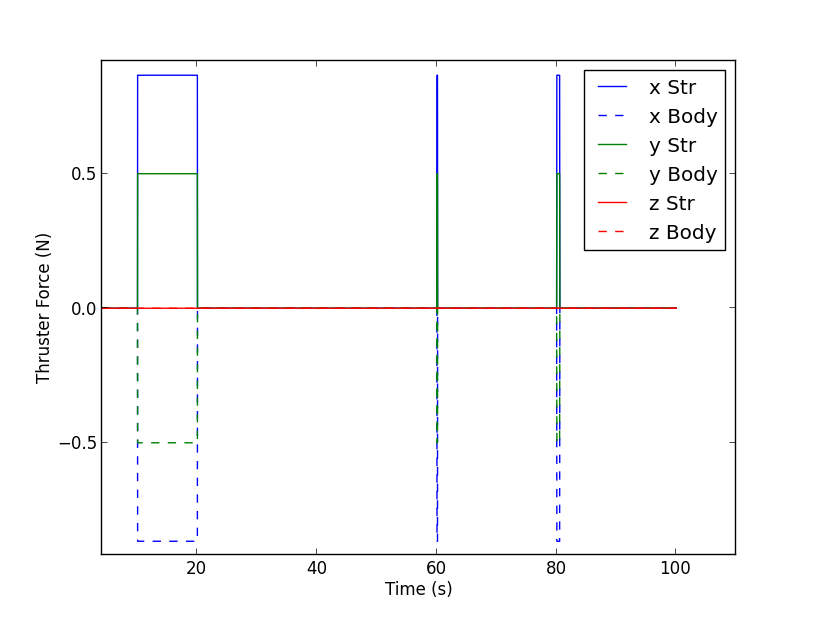
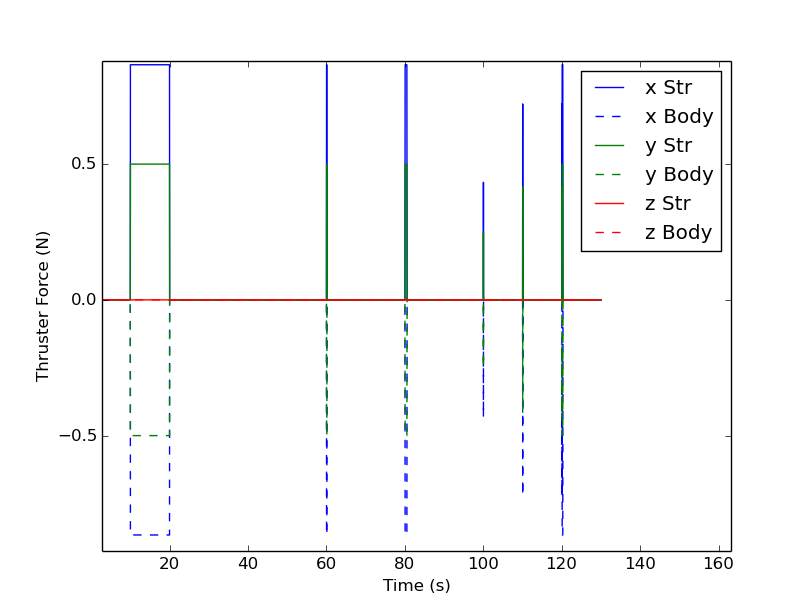
Committing updates for thruster_dynamics unit test.  Module is now completely tested and documented.
Former-commit-id: 45675307061fccbe301b770ad9b1a26f610c2d2d
Former-commit-id: 7fdf4bbc28b7f6ab2bea3b07f8066d2f0facc848

Changed region(s): [[0.0616, 0.0931, 0.9236, 0.9624], [0.0308, 0.3725, 0.0616, 0.6209]]

diff --git a/SimCode/dynamics/Thrusters/UnitTest/Doc/ADC-ThrustUnitTest.tex b/SimCode/dynamics/Thrusters/UnitTest/Doc/ADC-ThrustUnitTest.tex
@@ -11,6 +11,9 @@
    the AVS Basilisk Simulation as part of the EMM project. }
 
 
+\usepackage[usenames,dvipsnames]{xcolor}
+\usepackage{hyperref}
+
 \begin{document}
 
 
@@ -100,15 +103,150 @@ up into several parts:\\
   rules of thumb above is fired to ensure that it is still correct enough.}
 \item{Ramp On/Ramp Off Firing: A set of ramps are set for the thruster to ensure 
   that the ramp configurationis respected during a ramped firing.}
+\item{Short firing: A thruster is fired for less than the amount of time it 
+   takes to reach the end of its ramp.}
+\item{Cutoff firing: A thruster is commanded off (zero firing time) in the middle 
+   of its ramp up to ensure that it correctly cuts off the current firing}
+\item{Ramp down firing: A thruster is fired during the middle of its ramp down 
+   to ensure that it picks up at that point in its ramp-up curve and reaches 
+   steady state correctly.}
 \end{enumerate}
 
 
 \section{Test Results}
+
+
 \begin{enumerate}
-\item{Thruster Force Orientation:}
-\item{Instantaneous On/Off Factor:}
-\item{Short Instantaneous Firing:}
-\item{Ramp On/Ramp Off Firing:}
+\item{Thruster Force Orientation: The thruster is pointed with a 30 degree cant 
+    off of the x-axis such that it fires with the sine of 30 in the y-axis 
+    and the cosine of 30 in the x-axis.  Then the structure to body rotation 
+    is configured with a 180 degree yaw such that the values in the axes are 
+    negated in the body frame. Figure \ref{fig:force_vec_fig} shows a plot of 
+    this behavior for the thruster unit test.
+    \begin{figure}[htb]
+            \centerline{
+            \includegraphics[scale=0.5]{Figures/thrusterForceData}
+            }
+            \caption{Structural and Body Forces for Thruster Unit Test}
+            \label{fig:force_vec_fig}
+    \end{figure}
+    As this figure shows, the desired behavior is captured exactly for each 
+    firing in the test.  \textcolor{ForestGreen}{Test successful.}
+}
+\item{Instantaneous On/Off Factor:  The main driving force for the overall 
+    thrust coming out of a thruster in the model is the instantaneous thrust 
+    factor.  This parameter will be the primary check for the rest of the test. 
+    A single firing was commanded with a duration of 10 seconds.  No thruster 
+    ramp was used for either the ramp-up or ramp-down.  The expected total 
+    duration for the thruster firing was 10.0 seconds.  Figure 
+    \ref{fig:first_inst_fir} shows a plot of the thrust factor for this firing.
+    \begin{figure}[htb]
+            \centerline{
+            \includegraphics[scale=0.5]{Figures/firstInstantFiring}
+            }
+            \caption{Thrust factor for 10.0 second firing}
+            \label{fig:first_inst_fir}
+    \end{figure}
+    As this plot shows, the thruster does jump to the appropriate firing level 
+    as soon as it turns on.  There are two funnies that need to be verified in 
+    a different test.  The thrust factor is designed to be driven during the 
+    derivative step of dynamics with a multi-step integrator.  In order to test 
+    this single model, this dynamics effect was emulated in the test driver.  
+    However this indicates that the thruster terminates one dynamics cycle prior 
+    to 10.0 seconds and reflects this effect regardless of the dynamics step 
+    used.  This is nominal because of the dynamics emulation but an integrated 
+    test does need to be performed to verify that the integrated impulse is 
+    correct for a single firing.  \textcolor{ForestGreen}{Test successful.}
+}
+\item{Short Instantaneous Firing: Similar to the previous test, a non-ramped 
+    firing was commanded with a shorter duration of 0.1 seconds to ensure that 
+    the firing shows the same overall behavior as a long-duration firing.  
+    Figure \ref{fig:second_inst_fir} shows the plot for this firing.
+
+    \begin{figure}[htb]
+            \centerline{
+            \includegraphics[scale=0.5]{Figures/secondInstantFiring}
+            }
+            \caption{Thrust factor for 0.1 second firing}
+            \label{fig:second_inst_fir}
+    \end{figure}
+    As this figure shows, the short firing behaves exactly as expected with the 
+    same character as the results shown in the previous test.
+    \textcolor{ForestGreen}{Test successful.}
+}
+\item{Ramp On/Ramp Off Firing:  This test was performed with a thruster 
+    ramp model added for both the startup and the shutdown of the thruster.  
+    Both the startup and shutdown ramps were setup such that they ramp linearly 
+    and take 30 ms to reach steady-state thrust.  Figure \ref{fig:first_ramp_fir} 
+    shows the thrust factor to this ramped firing.
+    \begin{figure}[htb]
+            \centerline{
+            \includegraphics[scale=0.5]{Figures/secondInstantFiring}
+            }
+            \caption{Thrust factor for 0.5 second ramped firing}
+            \label{fig:first_ramp_fir}
+    \end{figure}
+    As this figure shows, both the startup and shutdown transients ramped 
+    according to the expected profile and both were checked to ensure that 
+    they took the expected 30 ms to ramp. 
+    \textcolor{ForestGreen}{Test successful.}
+}
+\item{Short firing:  This test was performed with a short firing that did not 
+    reach the steady-state thrust level for the thruster.  It was commanded on 
+    for a duration of 15 ms such that it should only get to a 50\% thrust level 
+    with the total firing duration being 30 ms from start to shutdown.  Figure 
+    \ref{fig:short_ramp_fir} shows the results of this test.
+    \begin{figure}[htb]
+            \centerline{
+            \includegraphics[scale=0.5]{Figures/shortRampFiring}
+            }
+            \caption{Thrust factor for 0.015 second ramped firing}
+            \label{fig:short_ramp_fir}
+    \end{figure}
+    As the figure shows, the test performed exactly as expected.  The thrust 
+    factor ramped linearly to 50\% and then down to zero in exactly 30 ms.  
+    	\textcolor{ForestGreen}{Test successful.}
+}
+\item{Cutoff firing:  This test contained two commanded firings.  The first 
+    command was set for 0.5 seconds and the simulation was then advanced for 
+    0.02 seconds.  Then a new command was injected to the system with a duration 
+    of 0.005 seconds.  The intent in this case is to end up with a net command 
+    that looks like it was set for 0.025 seconds to ensure that the new command 
+    was followed and correctly overrode the previous command.  Figure 
+    \ref{fig:cutoff_ramp_fir} shows the results from this test.
+    \begin{figure}[htb]
+            \centerline{
+            \includegraphics[scale=0.5]{Figures/cutoffRampFiring}
+            }
+            \caption{Thrust factor for cutoff ramped firing}
+            \label{fig:cutoff_ramp_fir}
+    \end{figure}
+    As the figure shows, the expected behavior is observed exactly.  The thruster 
+    ramps to 0.8333 in thrust factor with the total firing duration being 0.05 
+    seconds.  	\textcolor{ForestGreen}{Test successful.}
+}
+\item{Ramp down firing:  This test contained two firings again.  The first 
+    command was set for 0.025 seconds to have the thrust start to ramp down 
+    0.025 seconds after init.  Then a second command was sent after 0.04 seconds 
+    in the middle of the thruster's ramp-down to ensure that the command picked 
+    back up where the thrust was tailing off, ramped up to steady-state, and 
+    ramped down after the command (0.2 seconds) was fulfilled.  Figure 
+    \ref{fig:middle_ramp_fir} shows the model's thrust for this particular 
+    command set.
+    \begin{figure}[htb]
+            \centerline{
+            \includegraphics[scale=0.5]{Figures/middleRampFiring}
+            }
+            \caption{Thrust factor for firing during shutdown}
+            \label{fig:middle_ramp_fir}
+    \end{figure}
+    This test also performed nominally.  The first firing ramped to 0.025 seconds 
+    and then began turning off.  Then the second command was picked up and the 
+    thrust ramped smoothly until the total duration of 0.2 seconds was reached 
+    followed by a ramp down.  The total expected firing for this particular 
+    sequence is 0.04 + 0.2 + 0.03 or 0.27 seconds which matches the observed 
+    duration exactly.  	\textcolor{ForestGreen}{Test successful.}
+}
 \end{enumerate}
 
 \section{Test Coverage}
@@ -130,17 +268,47 @@ module are tabulated in Table~\ref{tab:cov_met}
       WriteOutputMessages & 100.0 & 0.0 & 0.0 \\
       ReadInputs & 100.0 & 0.0 & 0.0 \\
       ConfigureThrustRequests & 100.0 & 0.0 & 0.0 \\
-      ComputeDynamics & 100.0 & 0.0 & 0.0 \\
+      ComputeDynamics & 100.0 & 0.0 & 9.8 \\
       ComputeThrusterFire & 100.0 & 0.0 & 0.0 \\
       ComputeThrusterShut & 100.0 & 0.0 & 0.0 \\
-      updateMassProperties & 100.0 & 0.0 & 0.0 \\
+      updateMassProperties & 100.0 & 0.0 & 0.6 \\
       \hline
    \end{tabular}
 \end{table}
 
 For all of the methods in the spice\_interface modules, the code coverage 
-percentage is 100\% which meets our test requirements.  
+percentage is 100\% which meets our test requirements.  Additionally, 100\% of 
+all code branches in the thruster\_dynamics source code were executed by this 
+test.
+
+The test that was run to calculate thruster CPU usage was deliberately selected as 
+a stressing case for the thruster model.  The MOI burn was executed 9000 seconds 
+after the simulation was initialized and that maneuver takes 2000 seconds, so 
+approximately 20\% of the simulation was run with the vehicle under thrust.  
+With this stressing case, the ThrusterDynamics model accounted for 10\% of the 
+overall processing, which is certainly acceptable at this time.
+
+The main CPU usage of the thruster\_dynamics source code occurs in the 
+ComputeDynamics method that is called by the dynamics source.  The 
+ThrusterDynamics methods themselves account for very little of the processing 
+and it is the vector/matrix manipulation utilities called from the source that 
+are the main culprits.  While the thruster model's ComputeDynamics function is 
+using 50\% of the dynamics processing, that is only amounting to 10\% of the 
+overall simulation processing.  The rest of the architecture in Basilisk should 
+allow us to take the processing hit that we are getting from the 
+ThrusterDynamics module without issue.
 
 \section{Conclusions}
+The thruster\_dynamics module has sufficient fidelity to accomplish the analysis 
+that we need to perform for the EMM spacecraft.  All model capabilities were 
+tested and analyzed in this document with all observed performance being nominal 
+compared to the going-in expectation.  
+
+Every line of source code was successfully tested and the integrated model 
+performance was analyzed and is acceptable.  There are small updates that could 
+be made to get a slight performance increase if necessary, but the work that 
+would be required to get that performance bump does not seem worthwhile at this 
+time especially since the vehicle (and all spacecraft) spends so little of its 
+time under thrust.
 
 \end{document}

diff --git a/SimCode/dynamics/Thrusters/thruster_dynamics.cpp b/SimCode/dynamics/Thrusters/thruster_dynamics.cpp
@@ -61,11 +61,6 @@ void ThrusterDynamics::CrossInit()
     //! - Warn the user if the message is not successfully linked.
     CmdsInMsgID = SystemMessaging::GetInstance()->subscribeToMessage(InputCmds,
     MAX_NUM_EFFECTORS*sizeof(ThrustCmdStruct), moduleID);
-    if(CmdsInMsgID < 0)
-    {
-        std::cerr << "WARNING: Did not find a valid message with name: ";
-        std::cerr << InputCmds << "  :" << __FILE__ << std::endl;
-    }
 }
 
 /*! This method is here to write the output message structure into the specified
@@ -91,11 +86,6 @@ bool ThrusterDynamics::ReadInputs()
     uint64_t i;
     bool dataGood;
     //! Begin method steps
-    //! - If the input message ID is invalid, return without touching states
-    if(CmdsInMsgID < 0)
-    {
-        return(false);
-    }
     
     //! - Zero the command buffer and read the incoming command array
     SingleMessageHeader LocalHeader;
@@ -142,21 +132,20 @@ void ThrusterDynamics::ConfigureThrustRequests(double CurrentTime)
         if(*CmdIt >= it->MinOnTime) /// - Check to see if we have met minimum for each thruster
         {
             //! - For each case where we are above the minimum firing request, reset the thruster
-            it->ThrustOps.ThrusterStartTime = CurrentTime;
             it->ThrustOps.ThrustOnCmd = *CmdIt;
-            it->ThrustOps.ThrustOnRampTime = 0.0;
-            it->ThrustOps.ThrustOnSteadyTime = 0.0;
-            it->ThrustOps.ThrustOffRampTime = 0.0;
-            it->ThrustOps.PreviousIterTime = CurrentTime;
             it->ThrustOps.fireCounter += 1;
         }
         else
         {
             //! - Will ensure that thruster shuts down once this cmd expires
-            it->ThrustOps.ThrustOnCmd = *CmdIt;
-            it->ThrustOps.ThrusterStartTime = CurrentTime;
-            it->ThrustOps.PreviousIterTime = CurrentTime;
+            it->ThrustOps.ThrustOnCmd = it->ThrustOps.ThrustFactor > 0.0 
+                ? *CmdIt : 0.0;
         }
+        it->ThrustOps.ThrusterStartTime = CurrentTime;
+        it->ThrustOps.PreviousIterTime = CurrentTime;
+        it->ThrustOps.ThrustOnRampTime = 0.0;
+        it->ThrustOps.ThrustOnSteadyTime = 0.0;
+        it->ThrustOps.ThrustOffRampTime = 0.0;
         //! After we have assigned the firing to the internal thruster, zero the command request.
         *CmdIt = 0.0;
     }
@@ -389,8 +378,7 @@ double ThrusterDynamics::thrFactorToTime(ThrusterConfigData *thrData,
             prevValidThrFactor) * (thrData->ThrustOps.ThrustFactor - 
             prevValidThrFactor) + prevValidDelta;
         rampTime = rampTime < 0.0 ? 0.0 : rampTime;
-        return(rampTime);
-    
+        break; 
     }
 
     return(rampTime);
@@ -412,5 +400,6 @@ void ThrusterDynamics::UpdateState(uint64_t CurrentSimNanos)
     {
         ConfigureThrustRequests(CurrentSimNanos*1.0E-9);
     }
+    WriteOutputMessages(CurrentSimNanos);
     
 }

diff --git a/SimCode/dynamics/Thrusters/UnitTest/ThrusterDynamicsUnitTest.py b/SimCode/dynamics/Thrusters/UnitTest/ThrusterDynamicsUnitTest.py
@@ -48,7 +48,9 @@ Thruster1.ThrusterLocation = thruster_dynamics.DoubleVector([1.125, 0.0, 2.0])
 Thruster1.ThrusterDirection = thruster_dynamics.DoubleVector([
     math.cos(30.0*math.pi/180.0), math.sin(30.0*math.pi/180.0), 0.0])
 Thruster1.MaxThrust = 1.0
-ACSThrusterDynObject.ThrusterData = thruster_dynamics.ThrusterConfigVector([Thruster1])
+Thruster1.steadyIsp = 226.7
+Thruster1.MinOnTime = 0.006
+ACSThrusterDynObject.AddThruster(Thruster1)
 
 #Set the test step (var1) and the various stop times (var2-var4)
 var1 = int(1E6) # call the thread at 1000 Hz, let the thread do stuff at 10 Hz
@@ -60,6 +62,7 @@ var6 = int((110 + 0.02)*1E9) #next stop
 var7 = int(((120)*1E9)) #next stop
 var8 = int(((120+0.04)*1E9)) #next stop
 var9 = int(((130)*1E9)) #next stop
+var10 = int(((140)*1E9)) #next stop
 
 #Create a sim module as an empty container
 TotalSim = SimulationBaseClass.SimBaseClass()
@@ -140,7 +143,7 @@ TotalSim.TotalSim.WriteMessageData("acs_thruster_cmds", 8, 3, ThrustMessage);
 executeSimulationRun(var6, var1, TotalSim, ACSThrusterDynObject,
     massPropsData, outputState)
 
-ThrustMessage.OnTimeRequest = 0.0;
+ThrustMessage.OnTimeRequest = 0.005;
 TotalSim.TotalSim.WriteMessageData("acs_thruster_cmds", 8, 4, ThrustMessage);
 executeSimulationRun(var7, var1, TotalSim, ACSThrusterDynObject,
     massPropsData, outputState)
@@ -153,6 +156,11 @@ executeSimulationRun(var8, var1, TotalSim, ACSThrusterDynObject,
 ThrustMessage.OnTimeRequest = 0.2;
 TotalSim.TotalSim.WriteMessageData("acs_thruster_cmds", 8, 6, ThrustMessage);
 executeSimulationRun(var9, var1, TotalSim, ACSThrusterDynObject,
+    massPropsData, outputState)
+
+ThrustMessage.OnTimeRequest = 0.001;
+TotalSim.TotalSim.WriteMessageData("acs_thruster_cmds", 8, 7, ThrustMessage);
+executeSimulationRun(var10, var1, TotalSim, ACSThrusterDynObject,
     massPropsData, outputState)
 
 #Extract log variables and plot the results
@@ -174,6 +182,11 @@ plt.figure(2)
 plt.plot(thrFactor[:,0]*1.0E-9, thrFactor[:,1])
 plt.xlabel('Time(s)')
 plt.ylabel('Thrust Factor (-)')
+
+ACSThrusterDynObject.InputCmds = "dummy_fire_not_work"
+TotalSim.InitializeSimulation()
+TotalSim.ConfigureStopTime(int(2E6))
+TotalSim.ExecuteSimulation()
 
 if(len(sys.argv) > 1):
    if(sys.argv[1] == 'True'):

diff --git a/IntegratedTests/EMMScienceOrbit.py b/IntegratedTests/EMMScienceOrbit.py
@@ -34,8 +34,8 @@ TheEMMSim.VehDynObject.GravData[2].IsCentralBody = True
 TheEMMSim.VehDynObject.GravData[2].IsDisplayBody = True
 TheEMMSim.VehOrbElemObject.mu = TheEMMSim.MarsGravBody.mu #central body of OE object
 
-#Setting a 2-inch dry mass CoM offset to be conservative
-TheEMMSim.VehDynObject.baseCoMInit[0] = 0.0254*2.0
+#Setting a dry mass CoM offset to be conservative
+TheEMMSim.VehDynObject.baseCoMInit[0] = 0.05 #meters
 
 #These mass properties are built assuming that we have already emptied the tank
 #inserting into Mars orbit.  I'm assuming that we have 40% of the prop remaining 
@@ -117,7 +117,7 @@ plt.plot(sigmaCMD[:,0]*1.0E-9, sigmaCMD[:,1], 'b', sigmaTruth[:,0]*1.0E-9, sigma
 plt.plot(sigmaCMD[:,0]*1.0E-9, sigmaCMD[:,2], 'g', sigmaTruth[:,0]*1.0E-9, sigmaTruth[:,2], 'g--')
 plt.plot(sigmaCMD[:,0]*1.0E-9, sigmaCMD[:,3], 'r', sigmaTruth[:,0]*1.0E-9, sigmaTruth[:,3], 'r--')
 plt.xlabel('Time (s)')
-plt.xlabel('Attitude MRP (-)')
+plt.ylabel('Attitude MRP (-)')
 
 
 

diff --git a/IntegratedTests/EMMMOIExecute.py b/IntegratedTests/EMMMOIExecute.py
@@ -40,7 +40,7 @@ TheEMMSim.VehDynObject.GravData[2].IsCentralBody = True
 TheEMMSim.VehDynObject.GravData[2].IsDisplayBody = True
 TheEMMSim.VehOrbElemObject.mu = TheEMMSim.MarsGravBody.mu
 
-TheEMMSim.VehDynObject.baseCoMInit[0] = 0.0254*2.0
+TheEMMSim.VehDynObject.baseCoMInit[0] = 0.05
 TheEMMSim.VehOrbElemObject.CurrentElem.a = -5253.512142852398*1000.0;
 TheEMMSim.VehOrbElemObject.CurrentElem.e = 1.737401863285942;
 TheEMMSim.VehOrbElemObject.CurrentElem.i = 0.07676135277528215;
